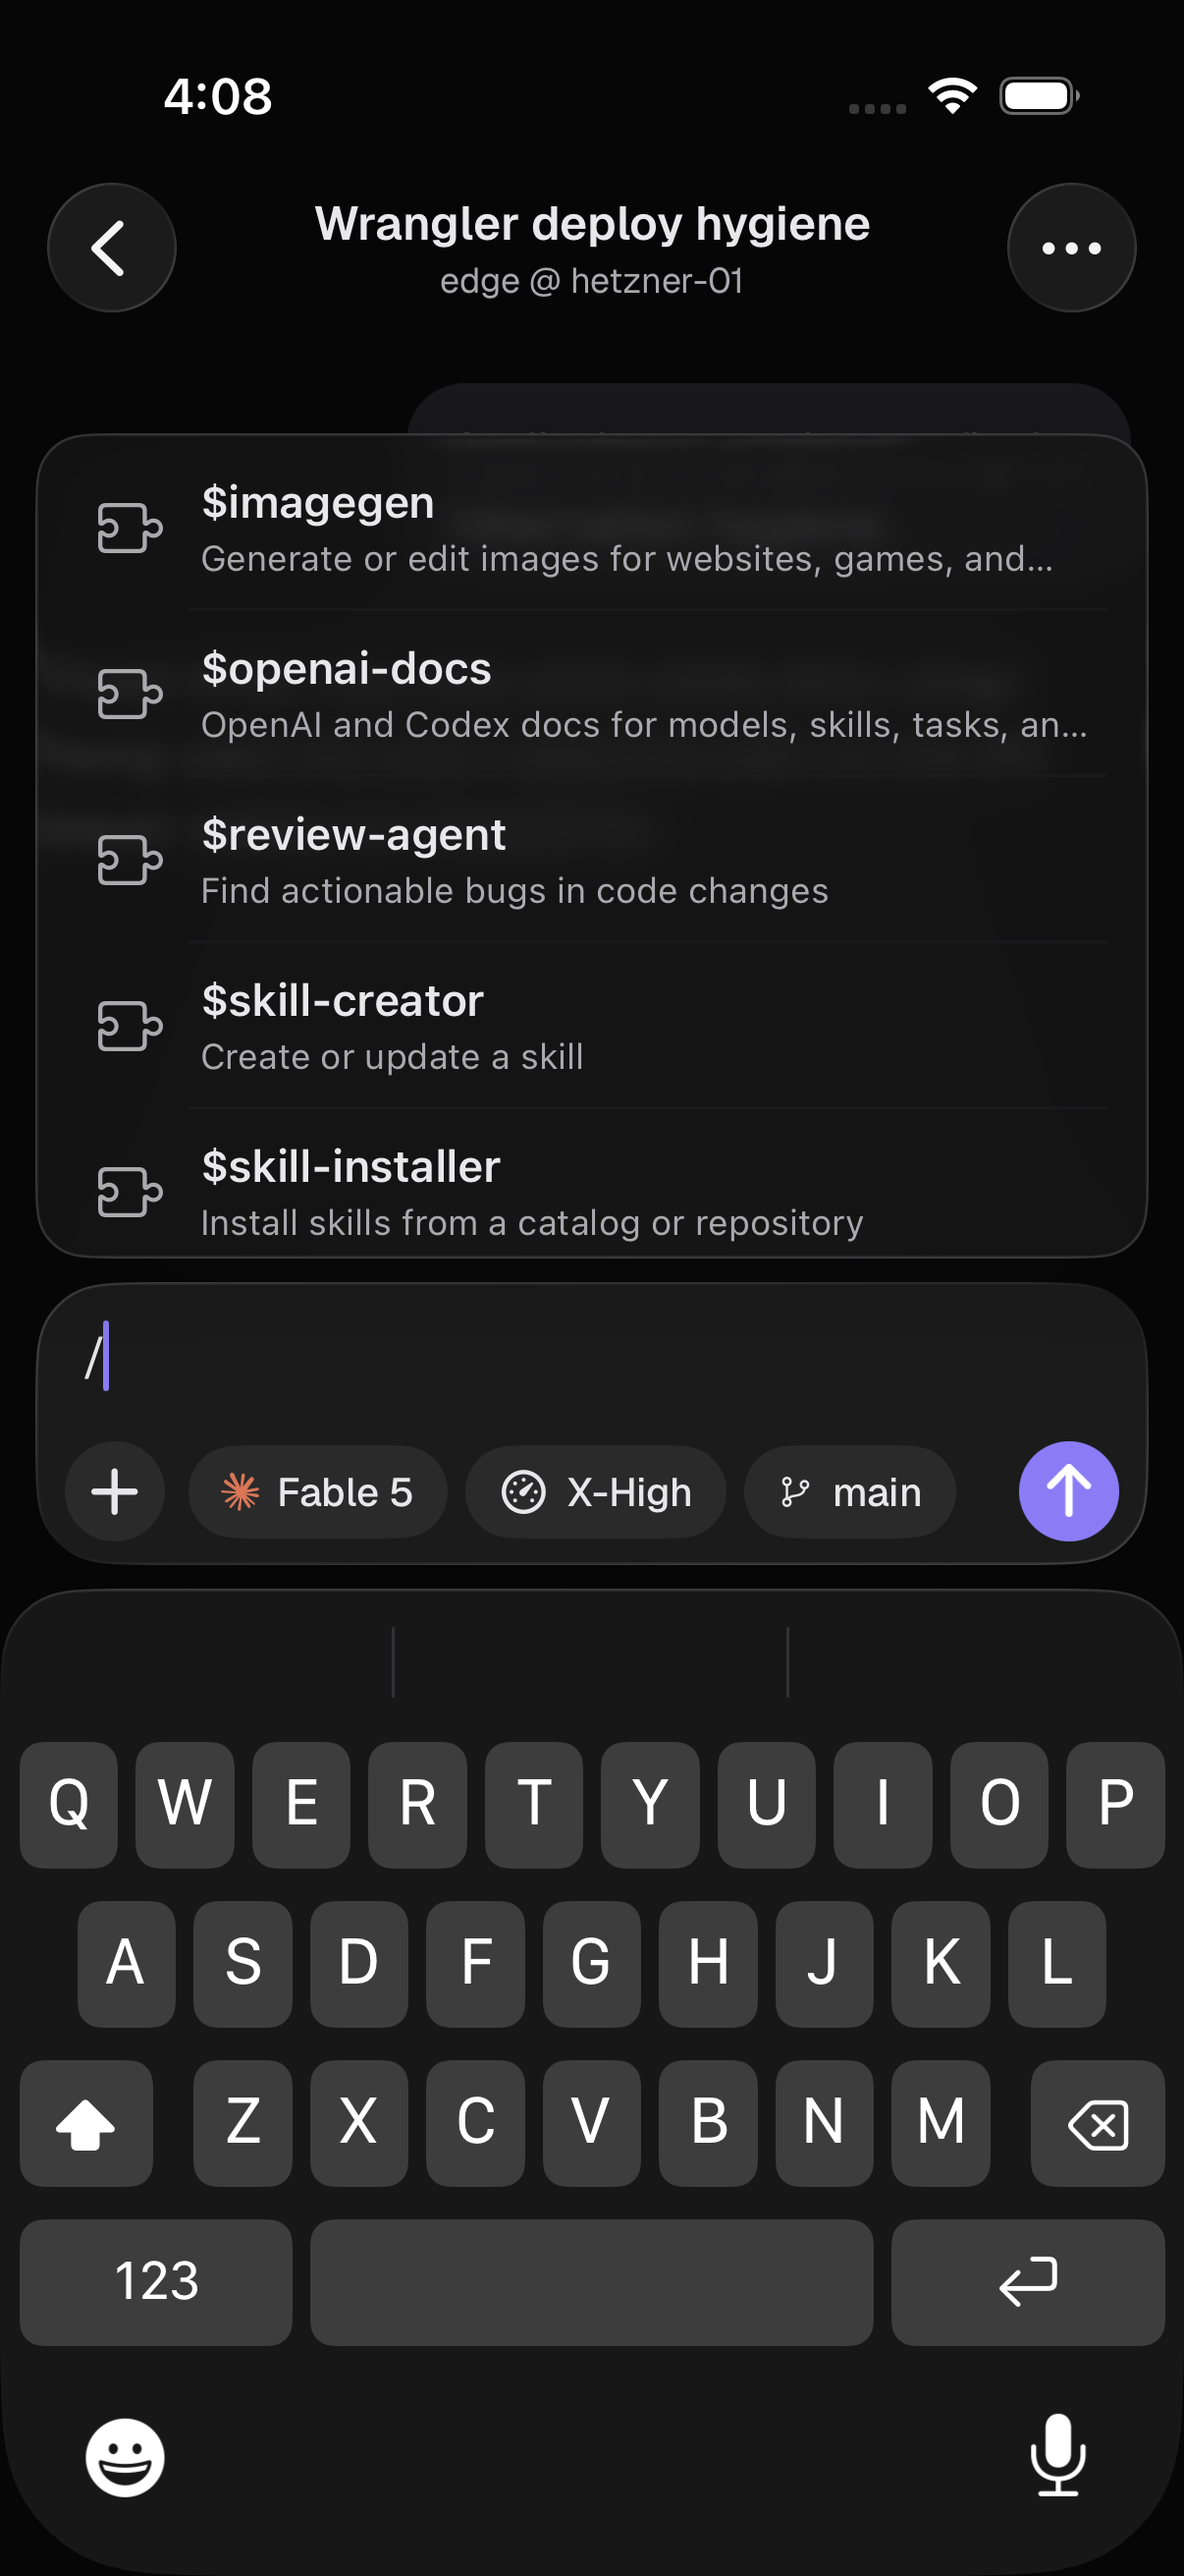
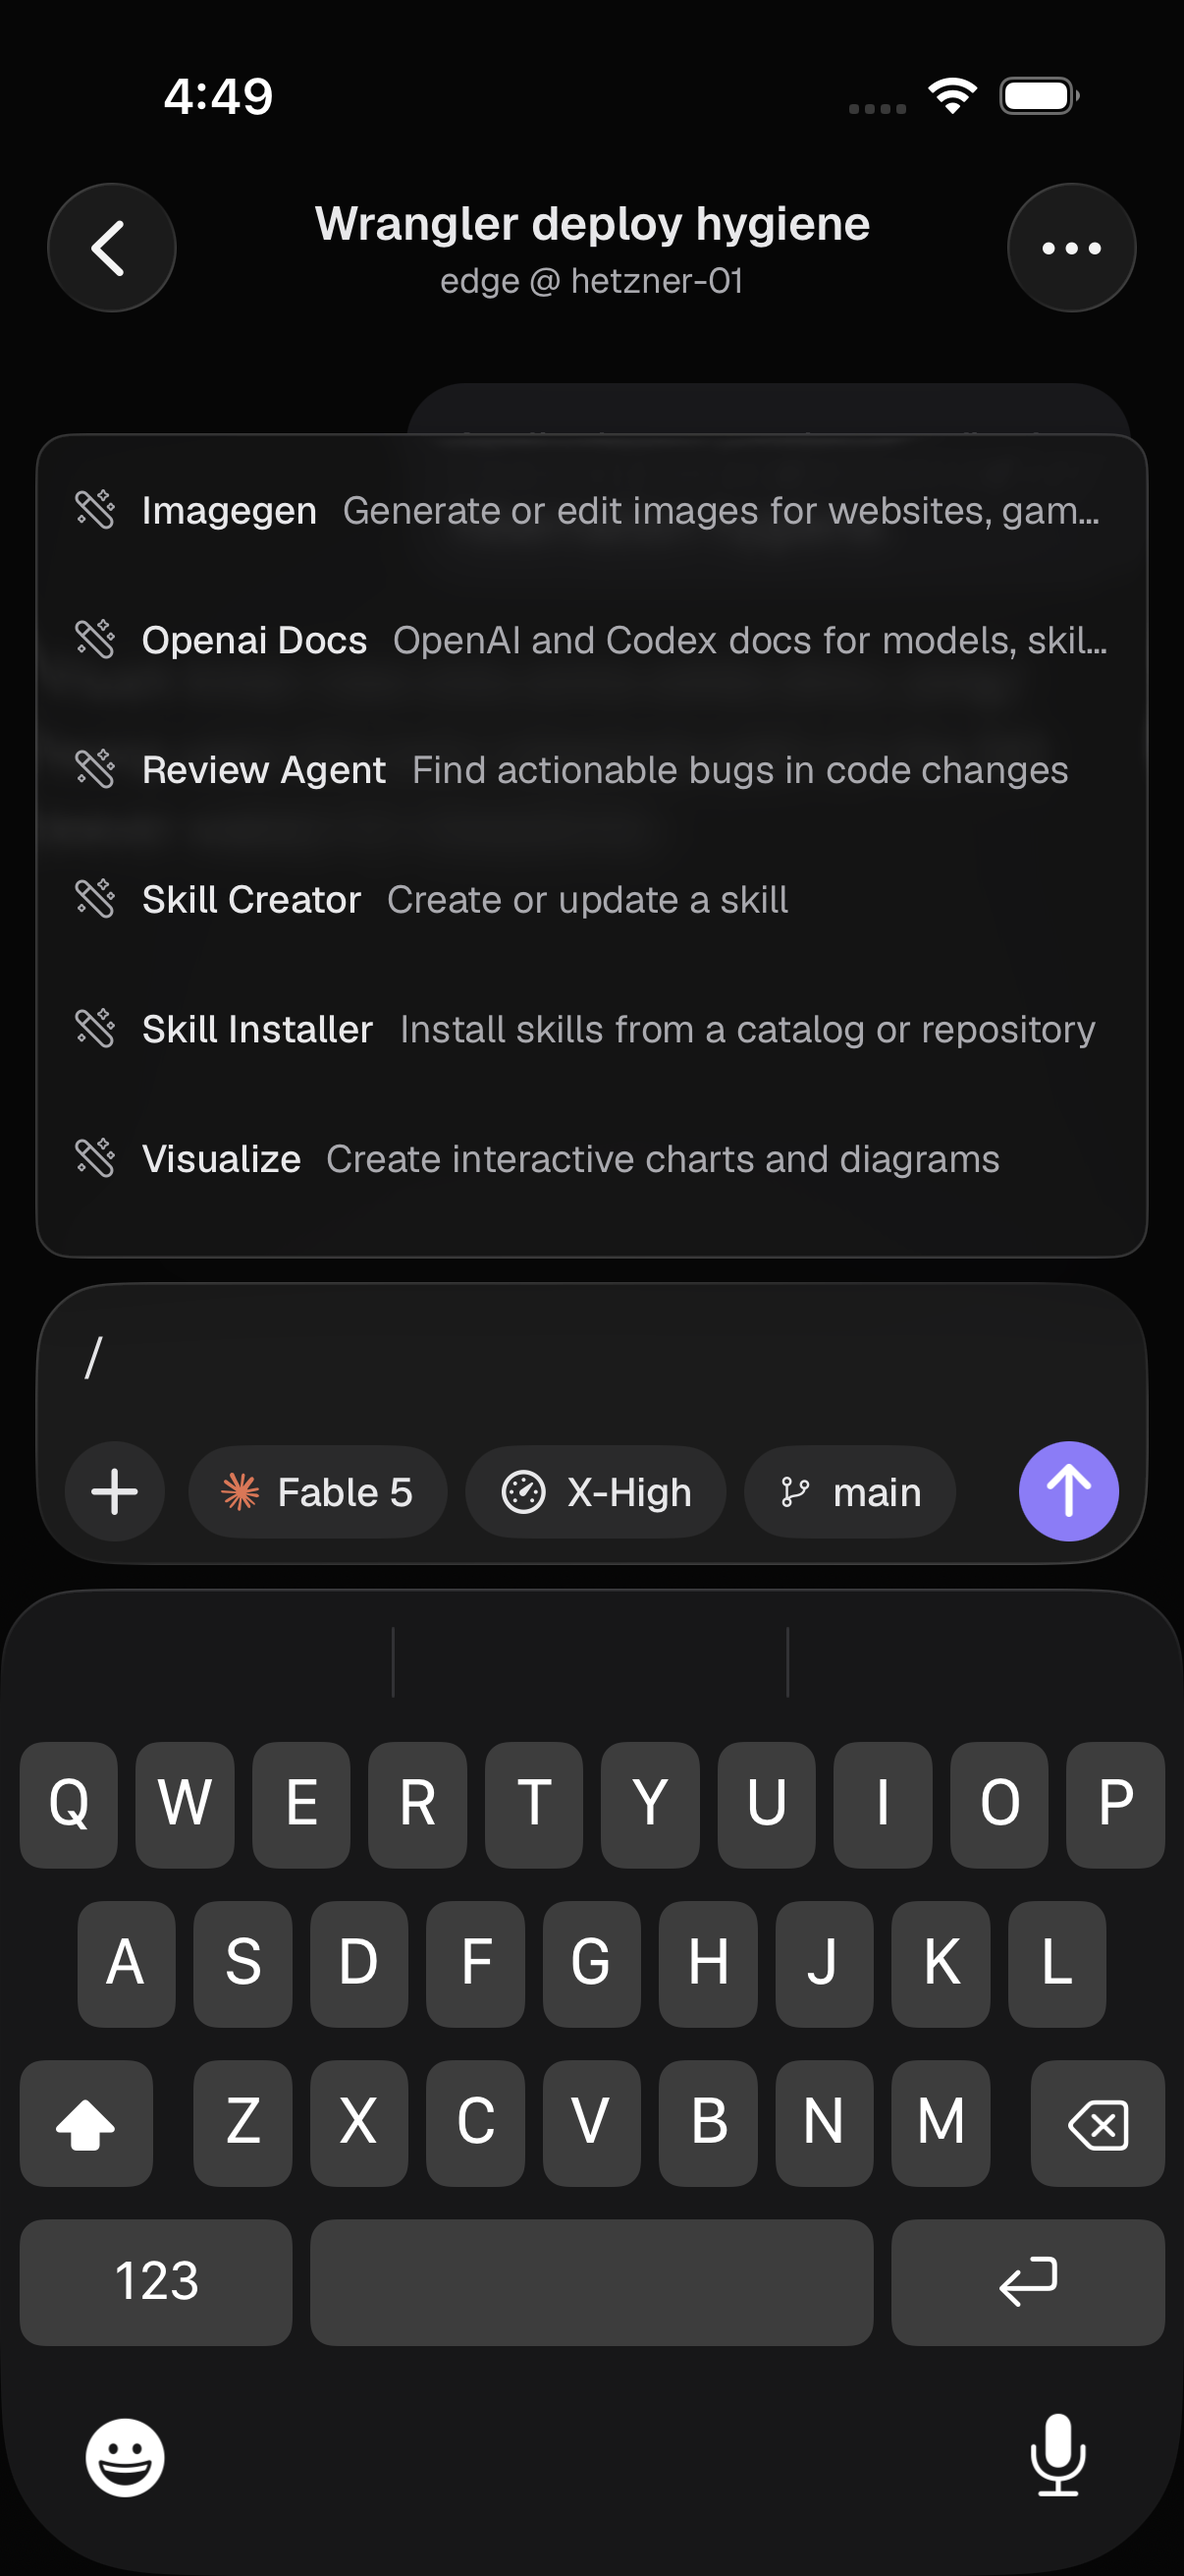
Refresh iOS command menu screenshots

Changed region(s): [[0.0614, 0.1854, 0.9204, 0.4943], [0.1841, 0.0309, 0.2148, 0.0618]]

diff --git a/docs/screenshots/ios-command-menu/README.md b/docs/screenshots/ios-command-menu/README.md
@@ -1,18 +1,32 @@
 These are unedited XCTest screenshots from the offline demo workspace on an
-**iPhone 17 Pro simulator**, built with **Xcode 26.6**.
+**iPhone 17 Pro simulator (iOS 26.5)**, built with **Xcode 26.6**.
 
-Source revision: `fed05921f8b17f55824cd48b2aec5883621f790e`.
-CI run: https://github.com/AndPuQing/zeron/actions/runs/39366183714
+Source revision: `0d36449d05e4061761597850fcb96f723abf5101`.
+CI run: https://github.com/AndPuQing/zeron/actions/runs/39370288596
 
-The iOS run passed 26 native unit tests and 9 UI tests. The mobile core checks
-passed 332 tests (1 ignored), and the generated Swift bindings matched.
+The iOS job passed **27 native unit tests and 9 selected UI tests**. The mobile
+core checks passed **332 tests (1 ignored)**, and the generated Swift bindings
+matched. The macOS native suite also passed.
 
-- `light.png` and `dark.png`: native, scrollable command/skill suggestions on Liquid Glass above the composer and keyboard.
-- `filtered-light.png` and `filtered-dark.png`: the list shrinks to one matching skill while typing.
+- `light.png`, `dark.png`: the desktop completion-row layout on Liquid Glass:
+  the desktop command/magic-wand icons at 16 pt, a Geist Medium 13 name and a
+  muted 12.5 detail on one line, with no row separators.
+- `command-light.png`, `command-dark.png`: the same row for the `/compact`
+  command, using the desktop command glyph and keeping the canonical slash name.
+- `filtered-light.png`, `filtered-dark.png`: filtering `/` to `imag` leaves the
+  single `Imagegen` skill row.
+
+Skills show the desktop human-readable name (`Imagegen`, `Openai Docs`, …) while
+insertion keeps the canonical `$imagegen` identity. Descriptions, unavailable
+reasons and input hints share the muted detail; host paths are not shown. The
+card is the existing glass surface with the desktop 12 pt radius, 4 pt inset and
+7 pt row highlight. Mobile-only adaptations are a 44 pt minimum touch row, a
+280 pt height cap with native scrolling above the keyboard, Dynamic Type and
+VoiceOver labels.
 
 `SessionFlowTests.testCommandSuggestionsStayCompactAndInsertSkills` verifies the
-menu stays above the input, limits its height, keeps descriptions to compact
-rows, excludes host paths from display, filters results, and inserts the selected
-skill without showing its canonical path in the composer. Both appearances run
-in the same UI flow. The native unit tests also retain the stale-context selection
-guard. Skill invocation links continue to retain the full identity/path internally.
+menu stays above the input and keyboard, caps its height, keeps light/dark rows
+one line and 44–50 pt tall, omits paths, filters to the matching skill, checks the
+desktop skill name, inserts the canonical `$imagegen` invocation, and renders the
+`/compact` command row. The native unit tests also cover the desktop display-name
+mapping and retain the stale-context selection guard.
